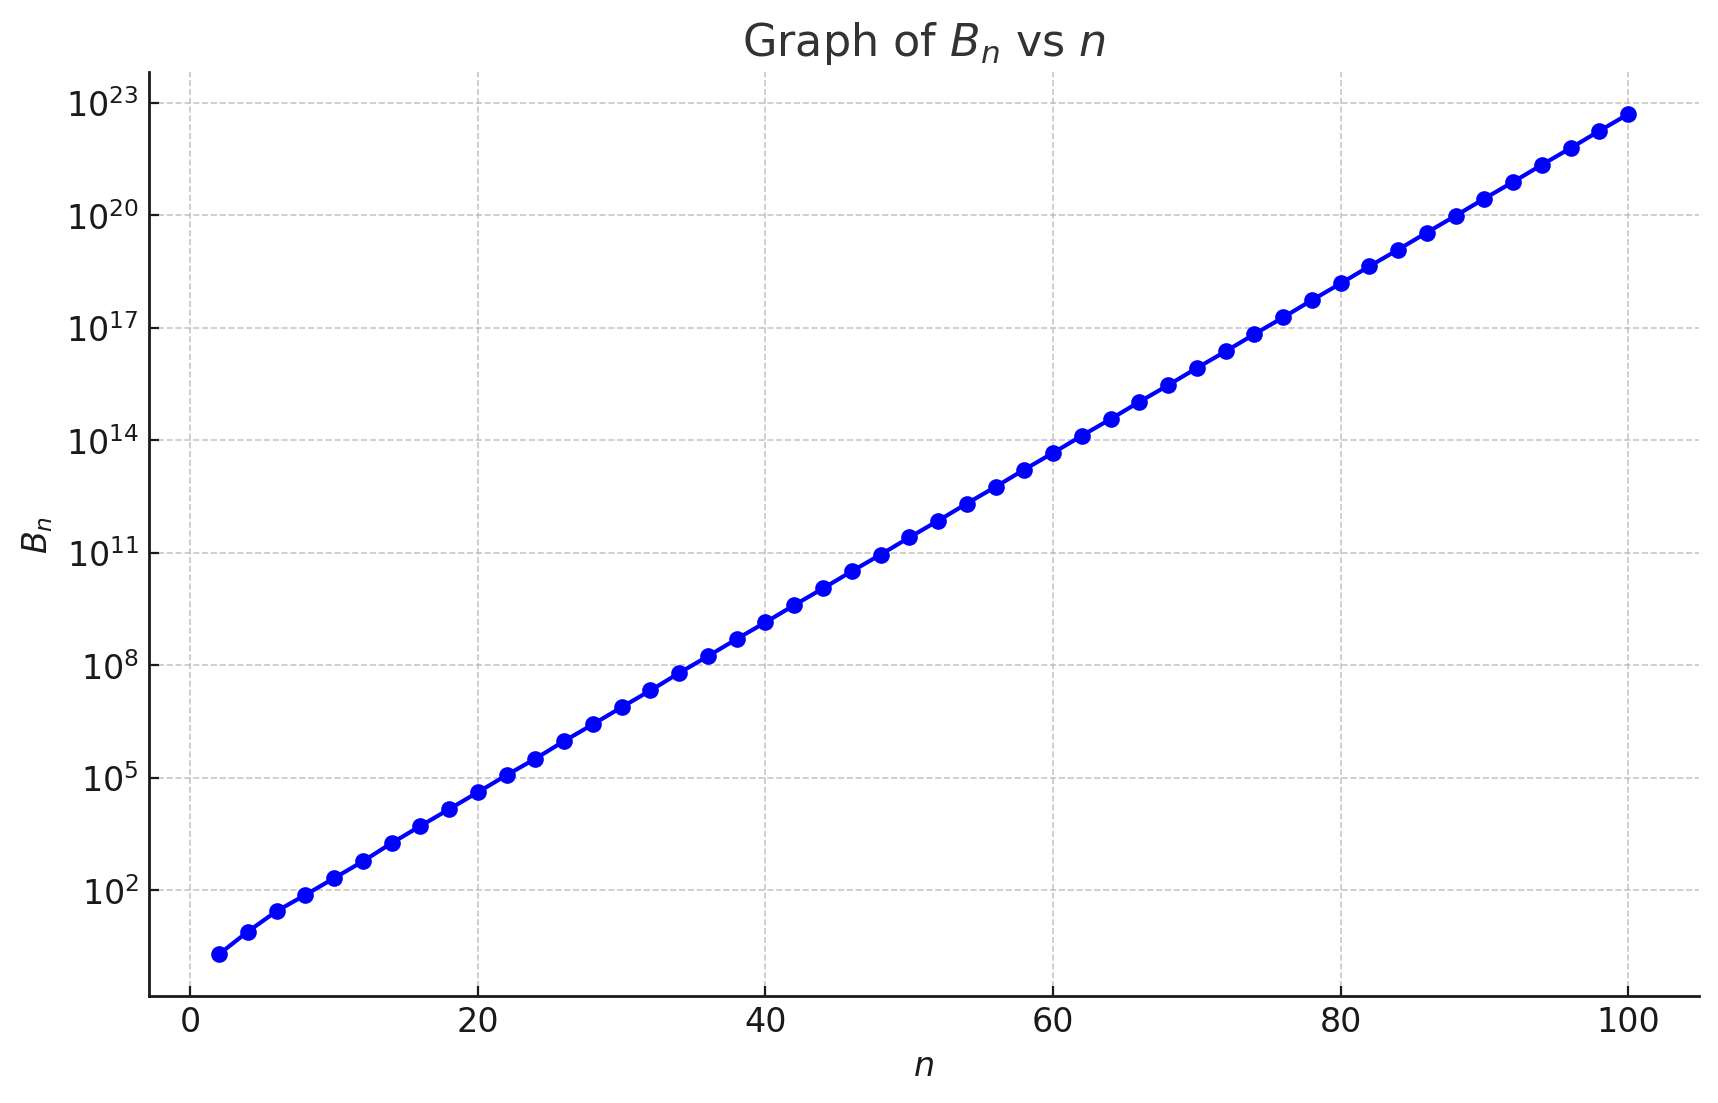
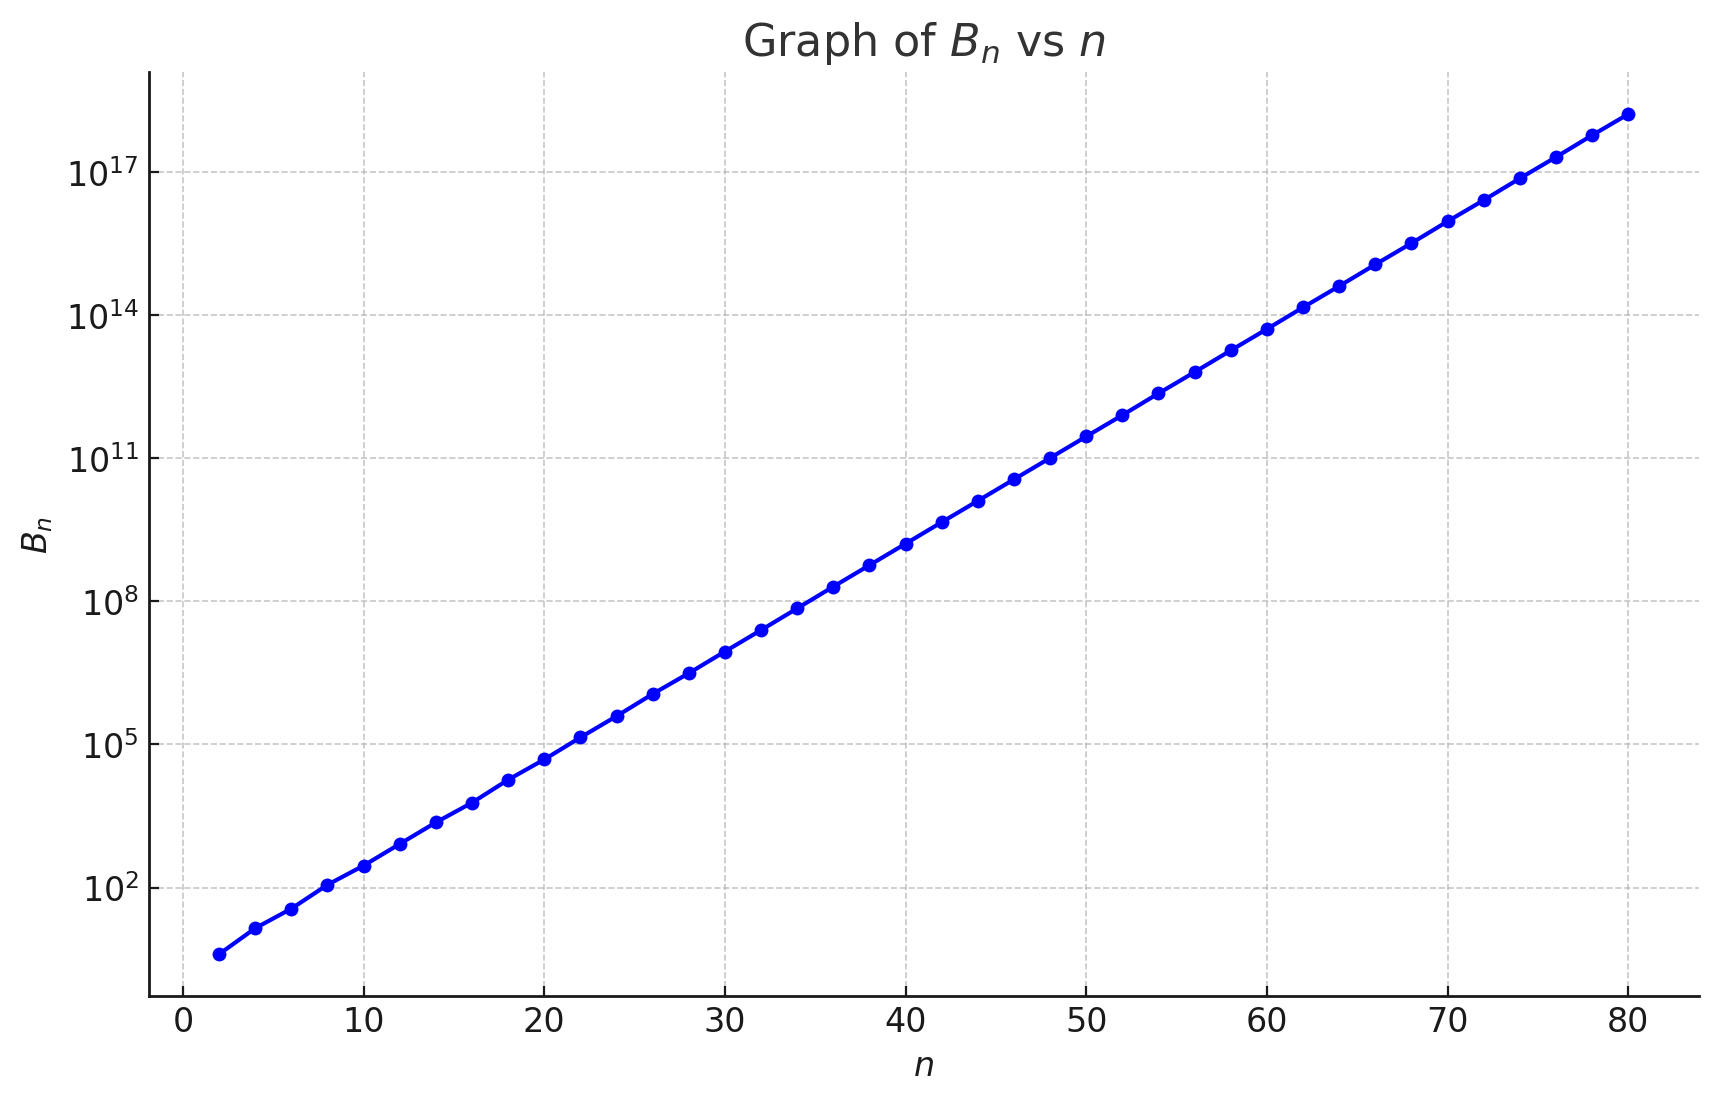
Minor corrections

diff --git a/RevisedHiddenWeight.tex b/RevisedHiddenWeight.tex
@@ -499,102 +499,104 @@ Table \ref{table:max_walsh_vs_bound} compares $\max_{a\in\mathbb F_2^n}|\wt f(a)
     \begin{tabular}{|c|c|c|}
     \hline
     $n$ & $\max_{a\in\F_2^n}|W_f(a)|$ & $B_n$ \\ \hline
-    $2$  & $2$     & $2$     \\
-    $4$  & $8$     & $8$     \\
-    $6$  & $20$    & $28$    \\
-    $8$  & $52$    & $76$    \\
-    $10$ & $108$   & $212$   \\
-    $12$ & $292$   & $596$   \\
-    $14$ & $700$   & $1\,828$  \\
-    $16$ & $2\,176$  & $5\,196$  \\
-    $18$ & $4\,964$  & $14\,668$  \\
-    $20$ & $14\,032$ & $41\,468$ \\
-    $22$ & $34\,232$ & $118\,544$ \\
-    $24$ & $109\,648$ & $325\,188$ \\ \hline
+    $2$  & $2$     & $4$     \\
+    $4$  & $8$     & $14$     \\
+    $6$  & $20$    & $36$    \\
+    $8$  & $52$    & $114$    \\
+    $10$ & $108$   & $288$   \\
+    $12$ & $292$   & $820$   \\
+    $14$ & $700$   & $2\,316$  \\
+    $16$ & $2\,176$  & $6\,006$  \\
+    $18$ & $4\,964$  & $18\,192$  \\
+    $20$ & $14\,968$ & $48\,480$ \\
+    $22$ & $34\,232$ & $140\,392$ \\
+    $24$ & $109\,648$ & $392\,168$ \\ \hline
     \end{tabular}
     \caption{The actual $\max_{a\in\F_2^n}|W_f(a)|$ vs.\ our bound $B_n$}
     \label{table:max_walsh_vs_bound}
 \end{table}
 
+Here is the updated table with the new values for \( B_n \) corresponding to each \( n \):
+
 \begin{table}
     \centering
-    \begin{minipage}{0.19\textwidth}
+    \begin{minipage}{0.24\textwidth}
         \centering
         \begin{tabular}{|c|c|}
             \hline
             $n$ & $B_n$ \\
             \hline
-            $2$  & $2.00 \cdot 10^{0}$  \\
-            $4$  & $8.00 \cdot 10^{0}$  \\
-            $6$  & $2.80 \cdot 10^{1}$  \\
-            $8$  & $7.60 \cdot 10^{1}$  \\
-            $10$ & $2.12 \cdot 10^{2}$ \\
-            $12$ & $5.96 \cdot 10^{2}$ \\
-            $14$ & $1.83 \cdot 10^{3}$ \\
-            $16$ & $5.20 \cdot 10^{3}$ \\
-            $18$ & $1.47 \cdot 10^{4}$ \\
-            $20$ & $4.15 \cdot 10^{4}$ \\
+            $2$  & $4.00 \cdot 10^{0}$  \\
+            $4$  & $1.40 \cdot 10^{1}$  \\
+            $6$  & $3.60 \cdot 10^{1}$  \\
+            $8$  & $1.14 \cdot 10^{2}$  \\
+            $10$ & $2.88 \cdot 10^{2}$  \\
+            $12$ & $8.20 \cdot 10^{2}$  \\
+            $14$ & $2.32 \cdot 10^{3}$  \\
+            $16$ & $6.01 \cdot 10^{3}$  \\
+            $18$ & $1.82 \cdot 10^{4}$  \\
+            $20$ & $4.85 \cdot 10^{4}$  \\
             \hline
         \end{tabular}
     \end{minipage}%
-    \begin{minipage}{0.19\textwidth}
+    \begin{minipage}{0.24\textwidth}
         \centering
         \begin{tabular}{|c|c|}
             \hline
             $n$ & $B_n$ \\
             \hline
-            $22$ & $1.19 \cdot 10^{5}$ \\
-            $24$ & $3.25 \cdot 10^{5}$ \\
-            $26$ & $9.59 \cdot 10^{5}$ \\
-            $28$ & $2.68 \cdot 10^{6}$ \\
-            $30$ & $7.65 \cdot 10^{6}$ \\
-            $32$ & $2.14 \cdot 10^{7}$ \\
-            $34$ & $6.25 \cdot 10^{7}$ \\
-            $36$ & $1.76 \cdot 10^{8}$ \\
-            $38$ & $5.03 \cdot 10^{8}$ \\
-            $40$ & $1.40 \cdot 10^{9}$ \\
+            $22$ & $1.40 \cdot 10^{5}$  \\
+            $24$ & $3.92 \cdot 10^{5}$  \\
+            $26$ & $1.14 \cdot 10^{6}$  \\
+            $28$ & $3.12 \cdot 10^{6}$  \\
+            $30$ & $8.90 \cdot 10^{6}$  \\
+            $32$ & $2.50 \cdot 10^{7}$  \\
+            $34$ & $7.14 \cdot 10^{7}$  \\
+            $36$ & $2.04 \cdot 10^{8}$  \\
+            $38$ & $5.75 \cdot 10^{8}$  \\
+            $40$ & $1.62 \cdot 10^{9}$  \\
             \hline
         \end{tabular}
     \end{minipage}%
-    \begin{minipage}{0.19\textwidth}
+    \begin{minipage}{0.24\textwidth}
         \centering
         \begin{tabular}{|c|c|}
             \hline
             $n$ & $B_n$ \\
             \hline
-            $42$ & $4.01 \cdot 10^{9}$ \\
-            $44$ & $1.12 \cdot 10^{10}$ \\
-            $46$ & $3.21 \cdot 10^{10}$ \\
-            $48$ & $8.91 \cdot 10^{10}$ \\
-            $50$ & $2.56 \cdot 10^{11}$ \\
-            $52$ & $7.12 \cdot 10^{11}$ \\
-            $54$ & $2.05 \cdot 10^{12}$ \\
-            $56$ & $5.73 \cdot 10^{12}$ \\
-            $58$ & $1.65 \cdot 10^{13}$ \\
-            $60$ & $4.59 \cdot 10^{13}$ \\
+            $42$ & $4.59 \cdot 10^{9}$  \\
+            $44$ & $1.29 \cdot 10^{10}$ \\
+            $46$ & $3.63 \cdot 10^{10}$ \\
+            $48$ & $1.02 \cdot 10^{11}$ \\
+            $50$ & $2.88 \cdot 10^{11}$ \\
+            $52$ & $8.06 \cdot 10^{11}$ \\
+            $54$ & $2.30 \cdot 10^{12}$ \\
+            $56$ & $6.45 \cdot 10^{12}$ \\
+            $58$ & $1.83 \cdot 10^{13}$ \\
+            $60$ & $5.14 \cdot 10^{13}$ \\
             \hline
         \end{tabular}
     \end{minipage}%
-    \begin{minipage}{0.19\textwidth}
+    \begin{minipage}{0.24\textwidth}
         \centering
         \begin{tabular}{|c|c|}
             \hline
             $n$ & $B_n$ \\
             \hline
-            $62$ & $1.32 \cdot 10^{14}$ \\
-            $64$ & $3.66 \cdot 10^{14}$ \\
-            $66$ & $1.05 \cdot 10^{15}$ \\
-            $68$ & $2.93 \cdot 10^{15}$ \\
-            $70$ & $8.40 \cdot 10^{15}$ \\
-            $72$ & $2.33 \cdot 10^{16}$ \\
-            $74$ & $6.71 \cdot 10^{16}$ \\
-            $76$ & $1.87 \cdot 10^{17}$ \\
-            $78$ & $5.39 \cdot 10^{17}$ \\
-            $80$ & $1.51 \cdot 10^{18}$ \\
+            $62$ & $1.47 \cdot 10^{14}$ \\
+            $64$ & $4.09 \cdot 10^{14}$ \\
+            $66$ & $1.17 \cdot 10^{15}$ \\
+            $68$ & $3.25 \cdot 10^{15}$ \\
+            $70$ & $9.34 \cdot 10^{15}$ \\
+            $72$ & $2.60 \cdot 10^{16}$ \\
+            $74$ & $7.44 \cdot 10^{16}$ \\
+            $76$ & $2.08 \cdot 10^{17}$ \\
+            $78$ & $5.97 \cdot 10^{17}$ \\
+            $80$ & $1.65 \cdot 10^{18}$ \\
             \hline
         \end{tabular}
     \end{minipage}
-    \caption{Values of $B_n$ for various $n$.}
+    \caption{Values of $B_n$ for various $n$}
     \label{table:walsh_bounds}
 \end{table}
 
